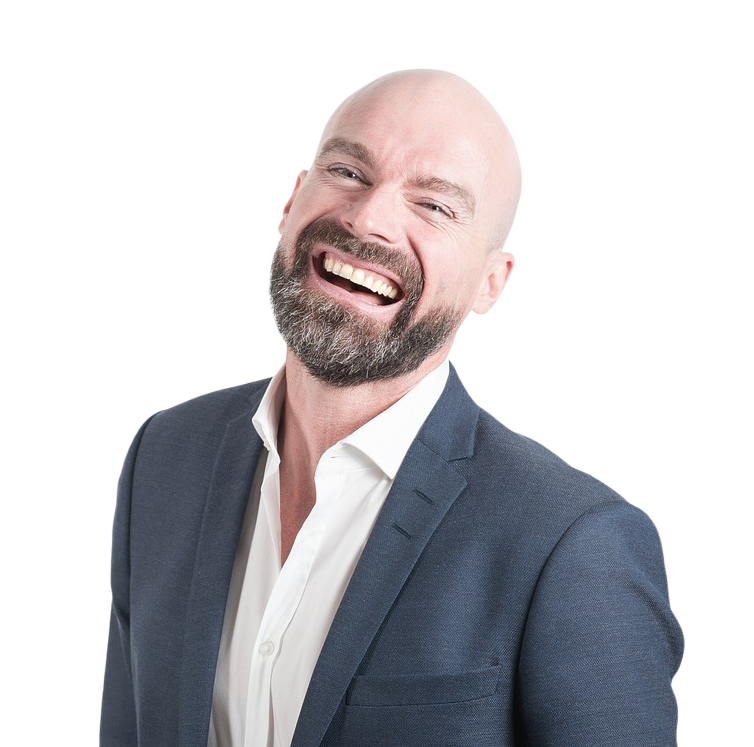
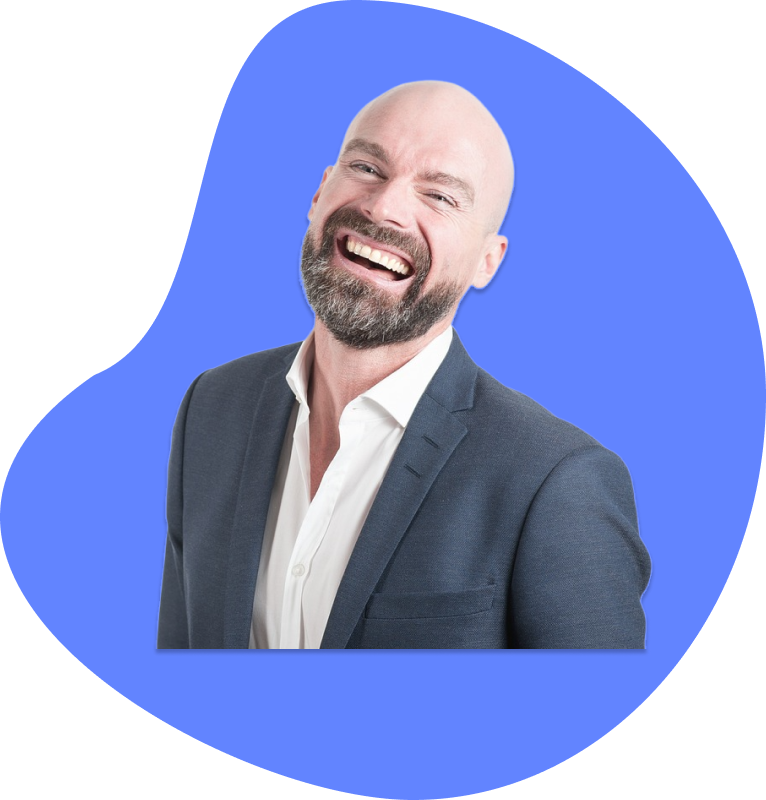
agendar cita

diff --git a/front/style/agendar.css b/front/style/agendar.css
@@ -1,0 +1,106 @@
+:root{
+    --color_primary: #6284FF;
+    --color_secundary: white;
+}
+body{
+    background-image: url(../imagenes/fondo.png);
+    background-position: center;
+    background-attachment: fixed;
+    background-size: cover;
+    background-repeat: no-repeat; 
+}
+.circle{
+    height: 450px;
+    width: 450px;
+    background-color: var(--color_primary);
+    border-radius: 50%;
+}
+nav{
+    background-color: var(--color_primary);
+    display: flex;
+    justify-content: center;
+    align-items: center;
+    justify-content: space-evenly;
+    width: 50%;
+    padding: 20px;
+    margin: 0 auto;
+    border-radius: 30px;
+    position: fixed;
+    left: 50%; 
+    transform: translateX(-50%); 
+}
+li{
+    list-style: none;
+}
+li a{
+    color: var(--color_secundary);
+    text-decoration: none;
+}
+.sesion{
+    background-color: var(--color_secundary);
+    border: transparent;
+    border-radius: 15px;
+    padding: 5px 25px;
+    color: black;
+}
+.container {
+    display: flex;
+    justify-content: center;
+    align-items: center;
+    flex-direction: column;
+    align-items: center;
+    height: 80vh; 
+    text-align: center;
+}
+.container h1{
+    font-size: 32px;
+}
+.date {
+    display: flex;
+    justify-content: space-evenly;
+    box-shadow: 0 5px 15px rgba(0, 0, 0, 0.40);
+    flex-direction: column;
+    padding: 20px 50px;
+    border-radius: 25px;
+    height: 60%;
+    width: 55%;
+}
+.date1{
+    display: flex;
+    flex-direction: row;
+    gap: 50px;
+    margin: 20px;
+    justify-content: center;
+}
+.date1 input,select{
+    background-color: var(--color_secundary);
+    border: 1px solid black;
+    padding: 10px 15px;
+    font-size: 13px;
+    border-radius: 8px;
+    width: 100%;
+    outline: none;
+    box-shadow: 0 5px 15px rgba(0, 0, 0, 0.35);
+    font-size: 17px;
+}
+textarea{
+    background-color: var(--color_secundary);
+    border: 1px solid black;
+    padding: 10px 15px;
+    font-size: 13px;
+    border-radius: 8px;
+    outline: none;
+    box-shadow: 0 5px 15px rgba(0, 0, 0, 0.35);
+    font-size: 17px;
+}
+.agendar{
+    background-color: var(--color_primary);
+    border: transparent;
+    border-radius: 10px;
+    padding: 5px;
+    color: white;
+    margin-top: 20px;
+    width: 40%;
+    font-size: 20px;
+}
+

diff --git a/front/views/agendar_cita.html b/front/views/agendar_cita.html
@@ -1,0 +1,54 @@
+<!DOCTYPE html>
+<html lang="en">
+<head>
+    <link rel="stylesheet" href="../style/agendar.css">
+    <meta charset="UTF-8">
+    <meta name="viewport" content="width=device-width, initial-scale=1.0">
+    <link href="https://cdn.jsdelivr.net/npm/bootstrap-icons@1.7.0/font/bootstrap-icons.css" rel="stylesheet">
+    <title>CAC-UPB</title>
+</head>
+<body>
+    <nav>
+        <li>
+            <lu><img src="" alt=""></lu>
+            <lu><a href="home.html">Home</a></lu>
+            <lu><a href="agendar_cita.html">Agendar cita</a></lu>
+            <lu><a href="">Citas</a></lu>
+            <lu><a href="">Obtener ticket</a></lu>
+            <lu><a href="" class="sesion">Iniciar sesion</a></lu>
+        </li>
+    </nav>
+    <main>
+        <section class="container">
+            <h1>Agenta tu cita</h1>
+            <article class="date">
+                <div class="date1">
+                    <input type="text" placeholder="Ingresa tu nombre">
+                    <input type="text" placeholder="Ingresa tu identificación">
+                </div>
+                <div class="date1">
+                    <input type="text" placeholder="Ingresa tu apellido">
+                    <input type="date">
+                </div>
+                <div class="date1">
+                    <input type="text" placeholder="Dirección">
+                    <input type="time" placeholder="Hora">
+                </div>
+                <div class="date1">
+                    <select name="" id="">
+                        <option value="">Selecciona el tipo de cita</option>
+                        <option value="">Devoluciones</option>
+                    </select>
+                    <select name="" id="">
+                        <option value="">Selecciona el lugara de la cita</option>
+                        <option value="">Campus UPB seccional Bucaramanga</option>
+                    </select>                
+                </div>
+                <textarea name="" id="" placeholder="Ingresa la descripcion de la cita"></textarea>
+                <input type="submit" class="agendar" value="Agendar cita">
+            </article>
+        </section>
+    </main>
+</body>
+
+</html>

diff --git a/front/style/home.css b/front/style/home.css
@@ -2,26 +2,61 @@
     --color_primary: #6284FF;
     --color_secundary: white;
 }
-nav {
+body{
+    background-image: url(../imagenes/fondo.png);
+    background-position: center;
+    background-attachment: fixed;
+    background-size: cover;
+    background-repeat: no-repeat; 
+}
+nav{
     background-color: var(--color_primary);
     display: flex;
-    justify-content: center; /* Centra horizontalmente */
-    align-items: center; /* Centra verticalmente */
-    width: 50%; /* Opcional: ajusta el ancho deseado */
-    padding: 20px; /* Agrega espacio interno */
-    margin: 0 auto; /* Centra horizontalmente usando márgenes automáticos */
+    justify-content: center;
+    align-items: center;
+    justify-content: space-evenly;
+    width: 50%;
+    padding: 20px;
+    margin: 0 auto;
     border-radius: 30px;
     position: fixed;
-    left: 50%; /* Coloca el borde izquierdo del elemento en el 50% del ancho de la ventana */
-    transform: translateX(-50%); /* Centra el elemento horizontalmente */
+    left: 50%; 
+    transform: translateX(-50%); 
 }
 li{
     list-style: none;
-    color: white;
 }
-li button{
+li a{
+    color: var(--color_secundary);
+    text-decoration: none;
+}
+.sesion{
     background-color: var(--color_secundary);
     border: transparent;
     border-radius: 15px;
     padding: 5px 25px;
+    color: black;
+}
+.container {
+    display: flex;
+    justify-content: center;
+    align-items: center;
+    height: 80vh; 
+}
+
+.text-person {
+    display: flex;
+    justify-content: space-evenly;
+}
+.text-person p{
+    width: 30%;
+    font-size: 20px;
+}
+.text-person img{
+    width: 25%;
+
+}
+.footer{
+    background-color:var(--color_primary);
+    height: 100vh;
 }

diff --git a/front/views/home.html b/front/views/home.html
@@ -3,6 +3,7 @@
 <head>
     <meta charset="UTF-8">
     <meta name="viewport" content="width=device-width, initial-scale=1.0">
+    <link href="https://cdn.jsdelivr.net/npm/bootstrap-icons@1.7.0/font/bootstrap-icons.css" rel="stylesheet">
     <link rel="stylesheet" href="../style/home.css">
     <title>CAC-UPB</title>
 </head>
@@ -10,13 +11,21 @@
     <nav>
         <li>
             <lu><img src="" alt=""></lu>
-            <lu>Home</lu>
-            <lu>Agendar cita</lu>
-            <lu>Citas</lu>
-            <lu>Obtener ticket</lu>
-            <lu><button>Iniciar sesion</button></lu>
+            <lu><a href="">Home</a></lu>
+            <lu><a href="agendar_cita.html">Agendar cita</a></lu>
+            <lu><a href="">Citas</a></lu>
+            <lu><a href="">Obtener ticket</a></lu>
+            <lu><a href="" class="sesion">Iniciar sesion</a></lu>
         </li>
     </nav>
+    <main>
+        <section class="text-person">
+            <article class="container">
+                <p>Lorem ipsum dolor sit amet consectetur adipisicing elit. Minima assumenda, tenetur distinctio modi blanditiis nemo fuga reiciendis earum, eaque dolore labore impedit expedita placeat voluptatum. Optio exercitationem possimus architecto ad.</p>
+                <img src="../imagenes/hombre.png" alt="">    
+            </article>
+        </section>
+    </main>
 </body>
 
 </html>
